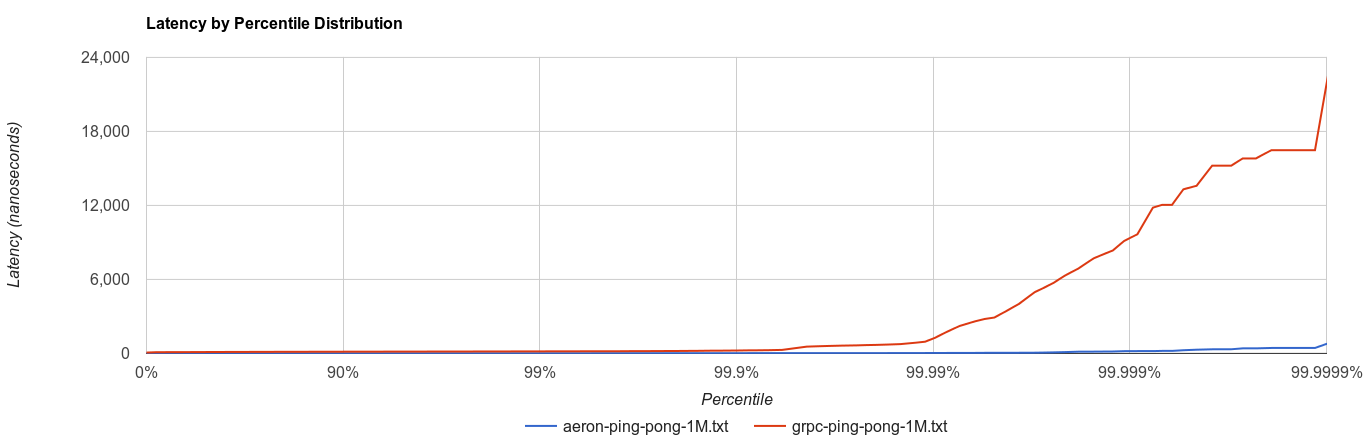
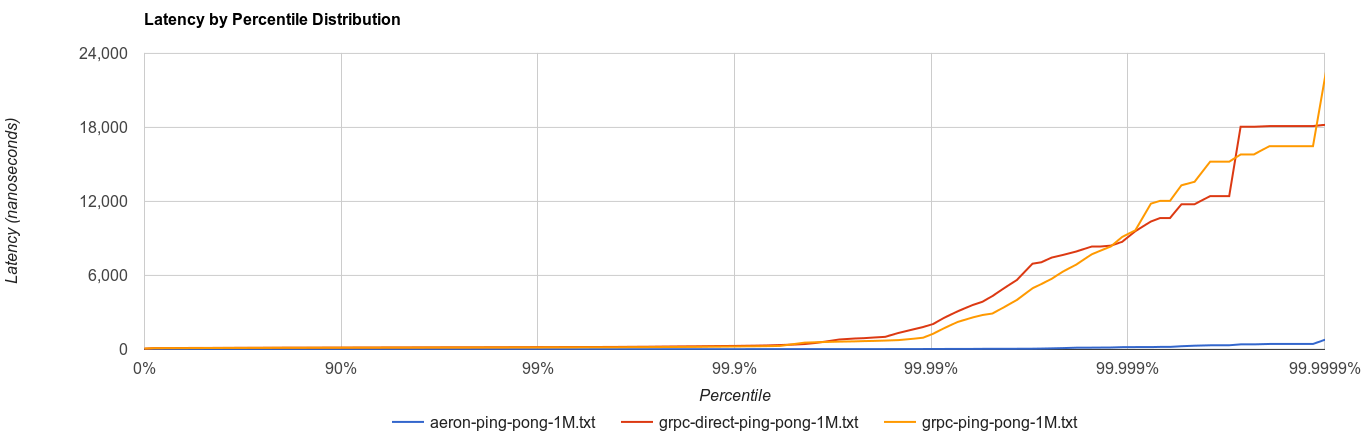
Add gRPC direct executor benchmark

diff --git a/grpc/src/main/java/au/com/acegi/rpcbench/grpc/BenchServer.java b/grpc/src/main/java/au/com/acegi/rpcbench/grpc/BenchServer.java
@@ -25,8 +25,8 @@ import au.com.acegi.rpcbench.grpc.codecs.Ping;
 import au.com.acegi.rpcbench.grpc.codecs.Pong;
 import au.com.acegi.rpcbench.grpc.codecs.Price;
 import au.com.acegi.rpcbench.grpc.codecs.Size;
-import io.grpc.ServerBuilder;
 import static io.grpc.ServerInterceptors.intercept;
+import io.grpc.netty.NettyServerBuilder;
 import io.grpc.stub.StreamObserver;
 import java.io.IOException;
 
@@ -52,7 +52,8 @@ public class BenchServer {
 
   @SuppressWarnings("PMD.DoNotUseThreads")
   private void start() throws IOException {
-    server = ServerBuilder.forPort(PORT)
+    server = NettyServerBuilder.forPort(PORT)
+        .directExecutor()
         .addService(intercept(new BenchImpl(), new ConnectionInterceptor()))
         .build()
         .start();

diff --git a/results/20160920/README.md b/results/20160920/README.md
@@ -10,9 +10,9 @@ stacks as applicable to Java Virtual Machine (JVM) only workloads.
 The Google stack consists of
 [Protocol Buffers](https://developers.google.com/protocol-buffers/) and
 [gRPC](http://www.grpc.io/). The former's extensive range of programming
-language integrations has led to it becoming something of a de facto standard
-for high performance data interchange. gRPC continues this tradition by adding
-request-response, client-streaming, server-streaming and bi-directional
+language integrations has led to it become something of a de facto standard for
+high performance data interchange. gRPC continues this tradition by adding
+polygot request-response, client-streaming, server-streaming and bi-directional
 streaming support. While gRPC is serialization independent, it is most commonly
 used with Protocol Buffers.
 
@@ -35,8 +35,8 @@ all transfer operations.
 Clearly gRPC and Aeron aim at different use cases and have made appropriate
 engineering trade-offs to achieve their specific goals. Our own requirements
 relate to market data transmission between JVM servers in the same data
-center. As such Aeron would appear to more natually align with our needs, but we
-wanted to explore whether gRPC might be suitable given its rich capabilities
+center. As such Aeron would appear to more naturally align with our needs, but
+we wanted to explore whether gRPC might be suitable given its rich capabilities
 around last mile computing workloads and programming language interoperability.
 
 ### Benchmark Design
@@ -58,7 +58,7 @@ receive 100 million price messages. Each price message contains one `long` and
 five `int` fields (ie 28 bytes), plus any framing and headers introduced by the
 implementation under test. The `long` contains the `System.nanoTime()` of the
 client request, allowing the client to compute the time required to receive each
-of the 100 million events.
+of the 100 million price messages.
 
 While 100 million price messages may seem excessive, it is only a small fraction
 of the billions of price messages transmitted on a typical trading day.
@@ -74,6 +74,8 @@ this benchmark, SBE's default eight byte message header was used.
 #### gRPC Configuration
 
 A default, Netty-based, plain-text gRPC client-server configuration was used.
+Following a [suggestion](https://twitter.com/buchgr/status/778323926959128576),
+`NettyServerBuilder.directExecutor()` was also benchmarked.
 
 The price stream benchmark originally failed with
 `io.netty.util.internal.OutOfDirectMemoryError: failed to allocate 16777216
@@ -104,7 +106,7 @@ versions were gRPC-Java 1.0.1, Aeron 1.0.1 and SBE 1.5.0.
 
 All tests were executed against `localhost` without any rate limiting. The
 kernel had been configured with `net.core.rmem_max=2097152` and
-`net.core.wmem_max=2097152`. The machine run no other workloads during the test.
+`net.core.wmem_max=2097152`. The machine ran no other workloads during the test.
 
 ### Benchmark Reproduction
 
@@ -131,22 +133,22 @@ All values are in nanoseconds.
 
 ![img](ping-pong.png)
 
-| Percentile | [gRPC](grpc-ping-pong-1M.txt) | [Aeron](aeron-ping-pong-1M.txt) |
-| ---------- | ----: | ---------: |
-| 0.00       | 69    | 3   |
-| 0.10       | 93    | 4   |
-| 0.20       | 99    | 5   |
-| 0.30       | 103   | 5   |
-| 0.40       | 107   | 6   |
-| 0.50       | 111   | 6   |
-| 0.60       | 116   | 6   |
-| 0.70       | 121   | 6   |
-| 0.80       | 127   | 6   |
-| 0.90       | 136   | 7   |
-| 0.95       | 145   | 8   |
-| 0.99       | 163   | 10  |
-| 0.999      | 577   | 17  |
-| 1.00       | 23,707 | 879 |
+| Percentile | [gRPC Default](grpc-ping-pong-1M.txt) | [gRPC Direct Executor](grpc-direct-ping-pong-1M.txt) | [Aeron](aeron-ping-pong-1M.txt) |
+| ---------- | ----: | -----: | --: |
+| 0.00       | 69    | 59     | 3   |
+| 0.10       | 93    | 99     | 4   |
+| 0.20       | 99    | 105    | 5   |
+| 0.30       | 103   | 111    | 5   |
+| 0.40       | 107   | 115    | 6   |
+| 0.50       | 111   | 120    | 6   |
+| 0.60       | 116   | 124    | 6   |
+| 0.70       | 121   | 129    | 6   |
+| 0.80       | 127   | 136    | 6   |
+| 0.90       | 136   | 146    | 7   |
+| 0.95       | 145   | 156    | 8   |
+| 0.99       | 163   | 183    | 10  |
+| 0.999      | 577   | 286    | 17  |
+| 1.00       | 23,707| 18,235 | 879 |
 
 Aeron's latency is far lower, and much more stable.
 
@@ -154,29 +156,31 @@ Aeron's latency is far lower, and much more stable.
 
 ![img](price-stream.png)
 
-| Percentile | [gRPC](grpc-price-stream-100M.txt) | [Aeron](aeron-price-stream-100M.txt) |
-| ---------- | ----: | ---------: |
-| 0.00       | 1,107         | 25   |
-| 0.10       | 112,810,000   | 692,060   |
-| 0.20       | 221,459,251   | 1,299,185   |
-| 0.30       | 332,859,965   | 1,880,096   |
-| 0.40       | 445,871,292   | 2,480,930   |
-| 0.50       | 554,587,652   | 3,061,841   |
-| 0.60       | 668,404,285   | 3,674,210   |
-| 0.70       | 782,757,789   | 4,265,607   |
-| 0.80       | 897,111,293   | 4,861,198   |
-| 0.90       | 1,010,927,927 | 5,460,983   |
-| 0.95       | 1,066,762,502 | 5,758,779   |
-| 0.99       | 1,117,765,238 | 5,989,466   |
-| 0.999      | 1,120,986,464 | 6,039,797   |
-| 1.00       | 1,122,060,206 | 6,043,992   |
+| Percentile | [gRPC Default](grpc-price-stream-100M.txt) | [Aeron](aeron-price-stream-100M.txt) |
+| ---------- | ------------: | ---------: |
+| 0.00       | 1,107         | 25         |
+| 0.10       | 112,810,000   | 692,060    |
+| 0.20       | 221,459,251   | 1,299,185  |
+| 0.30       | 332,859,965   | 1,880,096  |
+| 0.40       | 445,871,292   | 2,480,930  |
+| 0.50       | 554,587,652   | 3,061,841  |
+| 0.60       | 668,404,285   | 3,674,210  |
+| 0.70       | 782,757,789   | 4,265,607  |
+| 0.80       | 897,111,293   | 4,861,198  |
+| 0.90       | 1,010,927,927 | 5,460,983  |
+| 0.95       | 1,066,762,502 | 5,758,779  |
+| 0.99       | 1,117,765,238 | 5,989,466  |
+| 0.999      | 1,120,986,464 | 6,039,797  |
+| 1.00       | 1,122,060,206 | 6,043,992  |
 
-Aeron is around 185 times faster than gRPC for this test. Aeron transferred
-the full 100 million price messages in 6 seconds, as opposed to gRPC requiring
-19 minutes. In terms of approximate messages per second, Aeron delivered 17
-million per second against gRPC delivering closer to 89,000 per second. Aeron's
-throughput is thus around 445 MB per second of the 28 byte application-level SBE
-messages, or 572 MB including the 8 byte SBE message header.
+The gRPC direct executor was cancelled after 2.5 hours without completing.
+
+Aeron completed the transfer 185 times faster than gRPC. Aeron transferred the
+100 million price messages in 6 seconds, as opposed to gRPC requiring 19
+minutes. In terms of approximate messages per second, Aeron delivered 17 million
+per second against gRPC delivering close to 89,000 per second. Aeron's usable
+throughput was therefore around 445 MB per second (for the 28 byte SBE message),
+or 572 MB including the user-customisable 8 byte SBE message header.
 
 ### Conclusion
 
@@ -191,11 +195,11 @@ For example, Aeron recommends (though does not require) a dedicated media driver
 process and busy spin strategies, whereas gRPC always embeds the transport in
 the client and server processes.
 
-It is highly probable that the gRPC results could be improved by a gRPC expert.
-Pull requests are welcome.
+Both gRPC and Aeron provide many tuning options that could improve their
+respective results. Pull requests are welcome.
 
-If you are interested in low latency benchmarks on the JVM, you might like to
-browse at our
+If you are interested in other low latency benchmarks on the JVM, you might like
+to browse our
 [Embedded Key-Value Store Benchmark](https://github.com/lmdbjava/benchmarks)
 and
 [JVM Hashing Algorithm Benchmark](https://github.com/benalexau/hash-bench)
